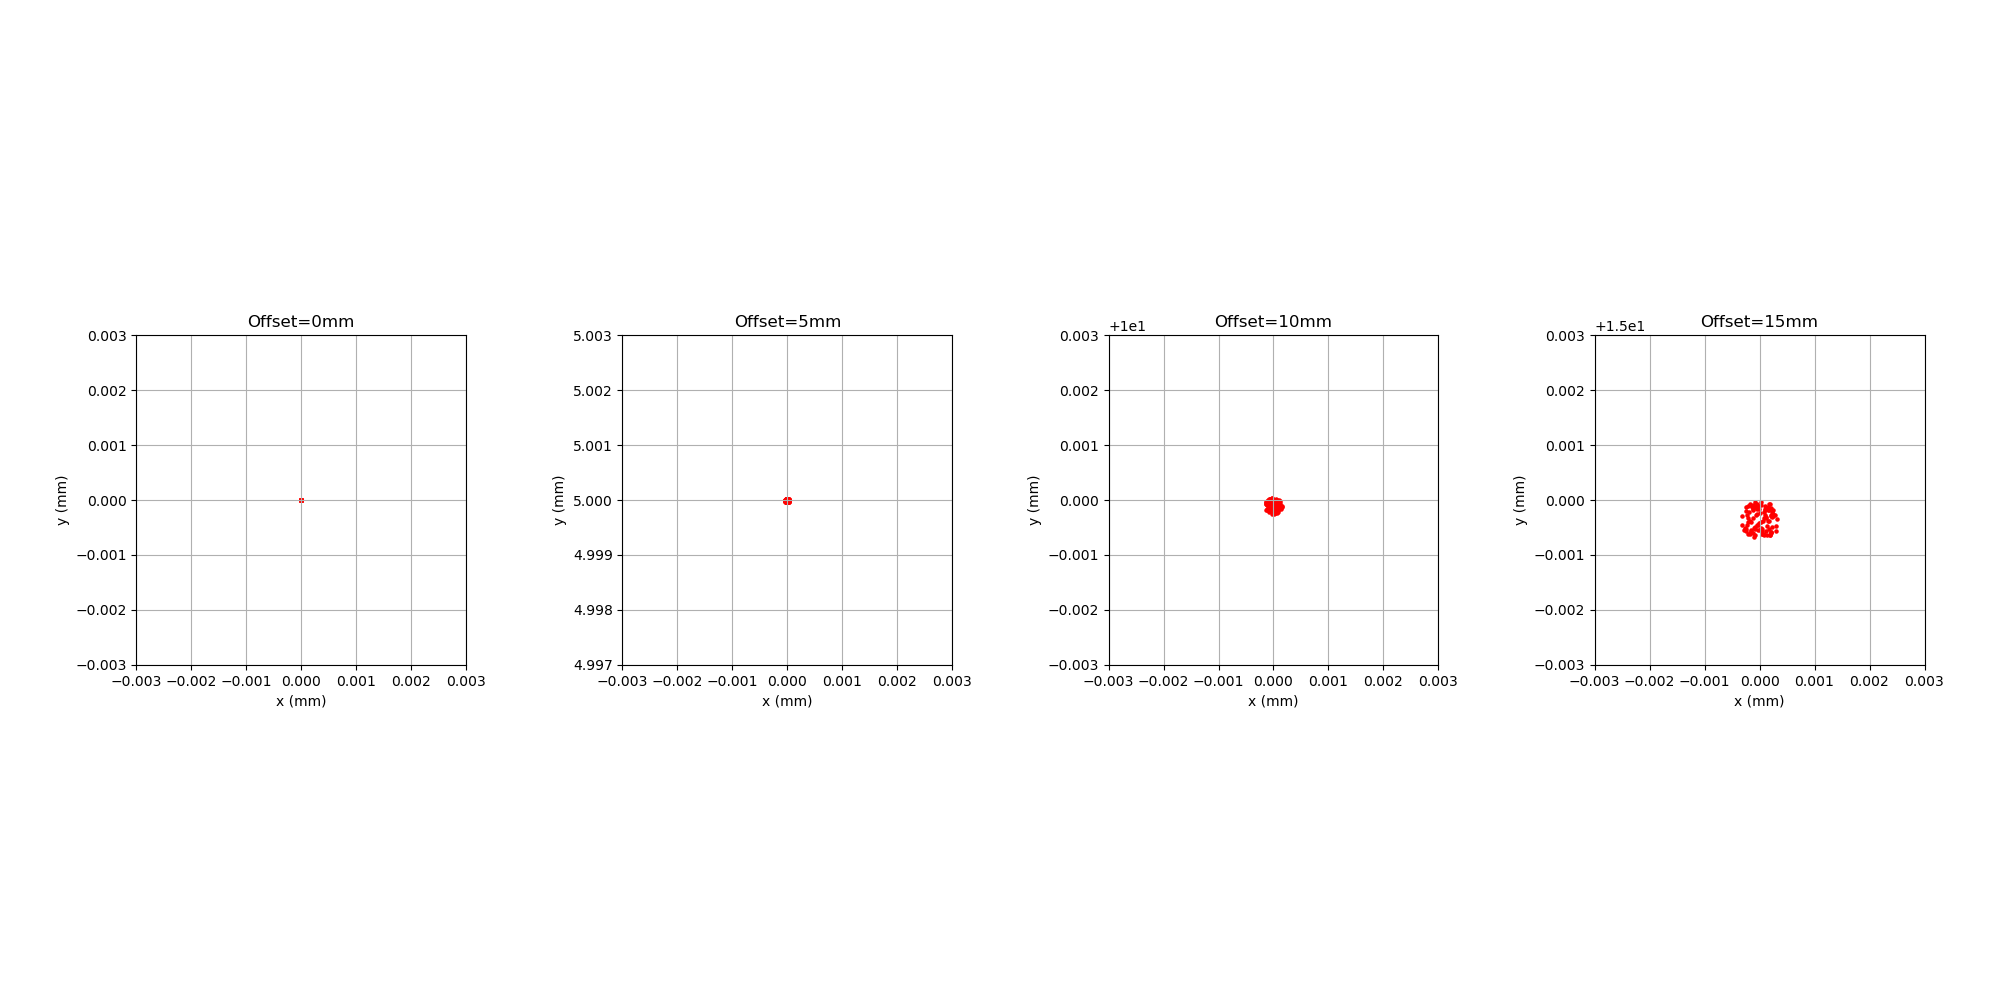
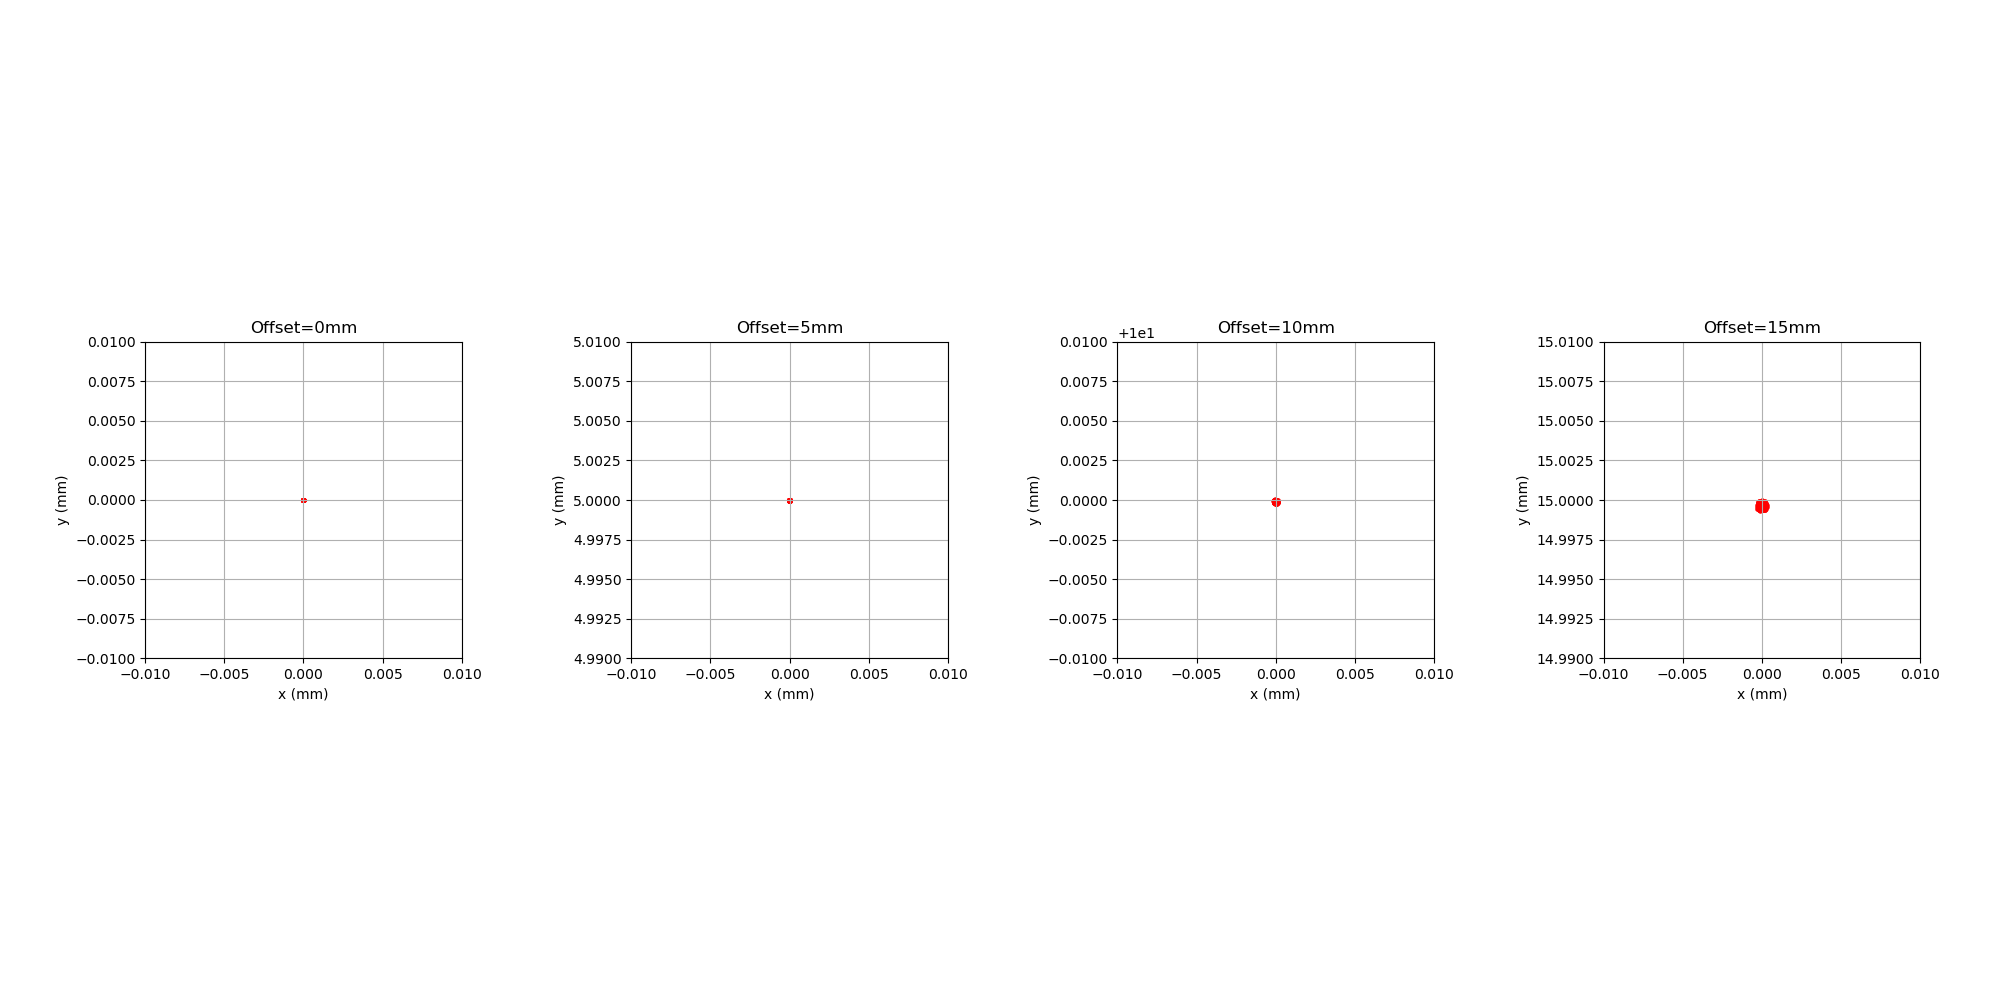
Cleanup + implement telescope class for easier configuration testing

diff --git a/Project_Austeja_Lelesiene.py b/Project_Austeja_Lelesiene.py
@@ -10,7 +10,7 @@ class Ray:
         self.origin = np.array(origin)
         self.direction = direction / np.linalg.norm(direction)
     
-def GenerateRays(n, z, D, step_size, offset):
+def GenerateRays(n, z, D, step_size, offset, f_sys):
     """
     Generates n parallel rays distributed within a circular aperture of diameter D at plane z. 
 
@@ -31,9 +31,8 @@ def GenerateRays(n, z, D, step_size, offset):
     filtered_x = xx[mask]
     filtered_y = yy[mask]
     if len(filtered_x) < n:
-        return GenerateRays(n, z, D, step_size * 0.9,offset)
+        return GenerateRays(n, z, D, step_size * 0.9,offset,f_sys)
     
-    global f_sys
     angle = math.atan2(offset,f_sys)
     indices = np.random.choice(len(filtered_x), size=n, replace=False)
     rays = []
@@ -67,20 +66,6 @@ class Mirror():
         nz = 1.0
         N = np.array([nx, ny, nz]) * np.sign(self.R)*-1
         return N / np.linalg.norm(N)
-    
-def CalculateK(f_sys, f_primary, k):
-    """
-    Calculates the conics for the primary and secondary mirrors.
-    
-    #m is secondary magnification - it describes how much the secondary mirror magnifies the image formed by the primary mirror.
-    """
-    m = f_sys / f_primary 
-
-    K_primary = -1.0 - (2.0 * k) / ((1.0 - k) * m**2)
-    K_secondary = -((m + 1.0) / (m - 1.0))**2 - (2.0 * m) / ((1.0 - k) * (m - 1.0)**3)
-
-
-    return K_primary, K_secondary
 
 def ReflectRay(ray, mirror):
     t = (mirror.z - ray.origin[2]) / ray.direction[2]
@@ -95,79 +80,114 @@ def ReflectRay(ray, mirror):
     reflected_dir = Reflection(ray.direction, N)
     return Ray(final_pos, reflected_dir)
 
-def GetPointAtFocalPlane(ray, primary, secondary, sensor_z):
+class Telescope():
+    """ 
+    Models an aplanatic two-mirror telescope. Supports both Ritchey-Chrétien Cassegrain and aplanatic gregorian
+    configurations.
+
+    Args:
+        name (str): Name for the specific configuration (e.g., "Hubble").
+        D (float): Aperture diameter (in mm).
+        f_primary (float): Focal length of the primary mirror (in mm).
+        F_sys (float):  The effective system focal ratio (e.g., 12). 
+                        IMPORTANT! Currently is also used as a toggle to determine 
+                        telescope type (negative vals for Gregorian).
+        s (float, optional): primary-secondary separation (mm)
+        k (float, optional): relative minimum secondary size
+
+    Note:
+        Please provide at least either s or k.
+        The primary mirror of the system is at z = 0.
     """
-    Gets the coordinates where a ray intersects the sensor plane located on the z axis at sensor_z.
-    However, sensor_z gets varied for different offsets, to simulate the curved surface of best focus.
-    """
-    ray_to_sec = ReflectRay(ray, primary)
-    ray_to_focus = ReflectRay(ray_to_sec, secondary)
-    t = (sensor_z-ray_to_focus.origin[2])/ray_to_focus.direction[2]
-    x = ray_to_focus.origin[0] + ray_to_focus.direction[0]*t
-    y = ray_to_focus.origin[1] + ray_to_focus.direction[1]*t
+    def __init__(self, name, D, f_primary, F_sys, *, s=None, k=None):
+        if not s and not k:
+            raise ValueError("You must provide at least either 's' (primary-secondary separation) or 'k' (relative minimum secondary size).")
+        
+        self.name = name
+        self.f_primary = f_primary
+        self.D = D
+        self.F_sys = F_sys
+        
+        if not k:
+            self.k = (f_primary - s) / f_primary
+        else:
+            self.k = k
+        if not s:
+            self.s = f_primary - (k*f_primary)
+        else:
+            self.s = s
+        
+        self.f_sys = self.F_sys * self.D
+        self.m = self.f_sys / self.f_primary
+        self.f_sensor_z = self.s - (self.m * (self.f_primary - self.s)) #"nominal" focal point
+        self.R_primary = self.f_primary*2
+        self.R_secondary = (self.m * self.k * self.R_primary) / (self.m - 1)
+        self.z_primary = 0
+        self.z_secondary = self.s
+        self.eta = (self.m + 1) * self.k - 1
+        self.Rm = ((1 + self.eta) * self.R_primary * self.m**2) / (2 * (self.m + 1) * (self.m**2 - (self.m-1)*self.eta))
+        self.K_primary = -1.0 - (2.0 * self.k) / ((1.0 - self.k) * self.m**2)
+        self.K_secondary = -((self.m + 1.0) / (self.m - 1.0))**2 - (2.0 * self.m) / ((1.0 - self.k) * (self.m - 1.0)**3)
 
-    return x, y
+        print(f"Telescope name: {self.name}")
+        print(f"The conics (K1, K2): {self.K_primary:.6f}, {self.K_secondary:.4f}")
+        print(f"secondary magnification (m): {self.m:.3f}")
+        print(f"relative minimum secondary size (k): {self.k:.3f}")
+        print(f"back focal distance (eta): {self.eta:.4f}")
+        print(f"best image surface curvature radius (Rm): {self.Rm:.2f}")
 
+        self.primary = Mirror(self.R_primary, self.K_primary, self.z_primary)
+        self.secondary = Mirror(self.R_secondary, self.K_secondary, self.z_secondary)
 
+    def GetPointAtFocalPlane(self, ray, sensor_z):
+        """
+        Gets the coordinates where a ray intersects the sensor plane located on the z axis at sensor_z.
+        However, sensor_z gets varied for different offsets, to simulate the curved surface of best focus.
+        """
+        ray_to_sec = ReflectRay(ray, self.primary)
+        ray_to_focus = ReflectRay(ray_to_sec, self.secondary)
+        t = (sensor_z-ray_to_focus.origin[2])/ray_to_focus.direction[2]
+        x = ray_to_focus.origin[0] + ray_to_focus.direction[0]*t
+        y = ray_to_focus.origin[1] + ray_to_focus.direction[1]*t
 
-#Hard-coded parameters for Hubble
-# in mm
-#--------------------
-s = 4906.5 # Primary-Secondary separation
-D = 2400 
-f_primary = 5520 
+        return x, y
 
-F_sys = 24 # Effective system focal ratio
-f_sys = F_sys * D
-#--------------------
-#Derived parameters
-R_primary = f_primary*2
-m = f_sys / f_primary
-print(f"secondary magnification: {m:.3f} | Expected: 10.435")
-f_sensor_z = s - (m * (f_primary - s)) #"nominal" focal point
-k = (f_primary - s) / f_primary
-print(f"relative minimum secondary size: {k:.3f} | Expected: 0.112")
-R_secondary = (m * k * R_primary) / (m - 1)
-z_primary = 0
-z_secondary = s
-eta = (m + 1) * k - 1
-print(f"back focal distance (eta): {eta:.4f} | Expected: 0.2800")
-Rm = ((1 + eta) * R_primary * m**2) / (2 * (m + 1) * (m**2 - (m-1)*eta))
-print(f"best image surface curvature radius (Rm): {Rm:.2f} | Expected: 633.00")
-K_primary, K_secondary = CalculateK(f_sys, f_primary, k)
-print(f"The conics (K1, K2): {K_primary:.6f}, {K_secondary:.4f} | Expected: -1.002300, -1.4970")
+test_telescopes = [
+    {"name": "Hubble",                      "D": 2400, "f_primary": 5520, "F_sys": 24, "s": 4906.5, "k": None},
+    {"name": "f_3_12_aplanatic_Gregorian",  "D": 300,  "f_primary": 900,  "F_sys": -12, "s": None,   "k": -0.417},
+]
 
-#General setup
-n_rays = 100
-offsets = [0, 5, 10, 15]
-fig, axes = plt.subplots(1, 4, figsize=(20, 10))
-axes = axes.flatten()
-ax = 0
-ax_limit = 0.003
+for specs in test_telescopes:
+    n_rays = 100
+    offsets = [0, 5, 10, 15]
+    fig, axes = plt.subplots(1, 4, figsize=(20, 10))
+    axes = axes.flatten()
+    ax = 0
+    ax_limit = 0.01
+    
+    telescope = Telescope(**specs)
+    #Produce spot diagrams
+    for offset in offsets:
+        rays = GenerateRays(100, telescope.s + 1000, telescope.D, 1, offset, telescope.f_sys)
 
-#Produce spot diagrams
-for offset in offsets:
-    rays = GenerateRays(100, s + 1000, D, 1, offset)
-    primary = Mirror(R_primary, K_primary, z_primary)
-    secondary = Mirror(R_secondary, K_secondary, z_secondary)
-    z_curve_shift = (offset**2) / (2 * Rm) #to compensate for field curvature
-    current_f_sensor_z = f_sensor_z + z_curve_shift
+        z_curve_shift = (offset**2) / (2 * telescope.Rm) #to compensate for field curvature
+        current_f_sensor_z = telescope.f_sensor_z + z_curve_shift
 
-    x = []
-    y = []
-    for ray in rays:
-        _x,_y = GetPointAtFocalPlane(ray,primary,secondary,current_f_sensor_z)
-        x.append(_x)
-        y.append(_y)
-    axes[ax].scatter(x, y, s=5, c='red')
-    axes[ax].set_title(f"Offset={offset}mm")
-    axes[ax].set_xlabel("x (mm)")
-    axes[ax].set_ylabel("y (mm)")
-    axes[ax].grid(True)
-    axes[ax].set_xlim(-ax_limit, ax_limit)
-    axes[ax].set_ylim(offset - ax_limit, offset + ax_limit)
-    axes[ax].set_aspect('equal')
-    ax += 1
-plt.tight_layout(pad=4)
-plt.savefig("Hubble_spot_diagram.png")
-plt.show()
+        x = []
+        y = []
+        for ray in rays:
+            _x,_y = telescope.GetPointAtFocalPlane(ray,current_f_sensor_z)
+            x.append(_x)
+            y.append(_y)
+        axes[ax].scatter(x, y, s=5, c='red')
+        axes[ax].set_title(f"Offset={offset}mm")
+        axes[ax].set_xlabel("x (mm)")
+        axes[ax].set_ylabel("y (mm)")
+        axes[ax].grid(True)
+        axes[ax].set_xlim(-ax_limit, ax_limit)
+        axes[ax].set_ylim(offset - ax_limit, offset + ax_limit)
+        axes[ax].set_aspect('equal')
+        ax += 1
+    plt.tight_layout(pad=4)
+    plt.savefig(f"{telescope.name}_spot_diagram.png")
+    plt.show()
